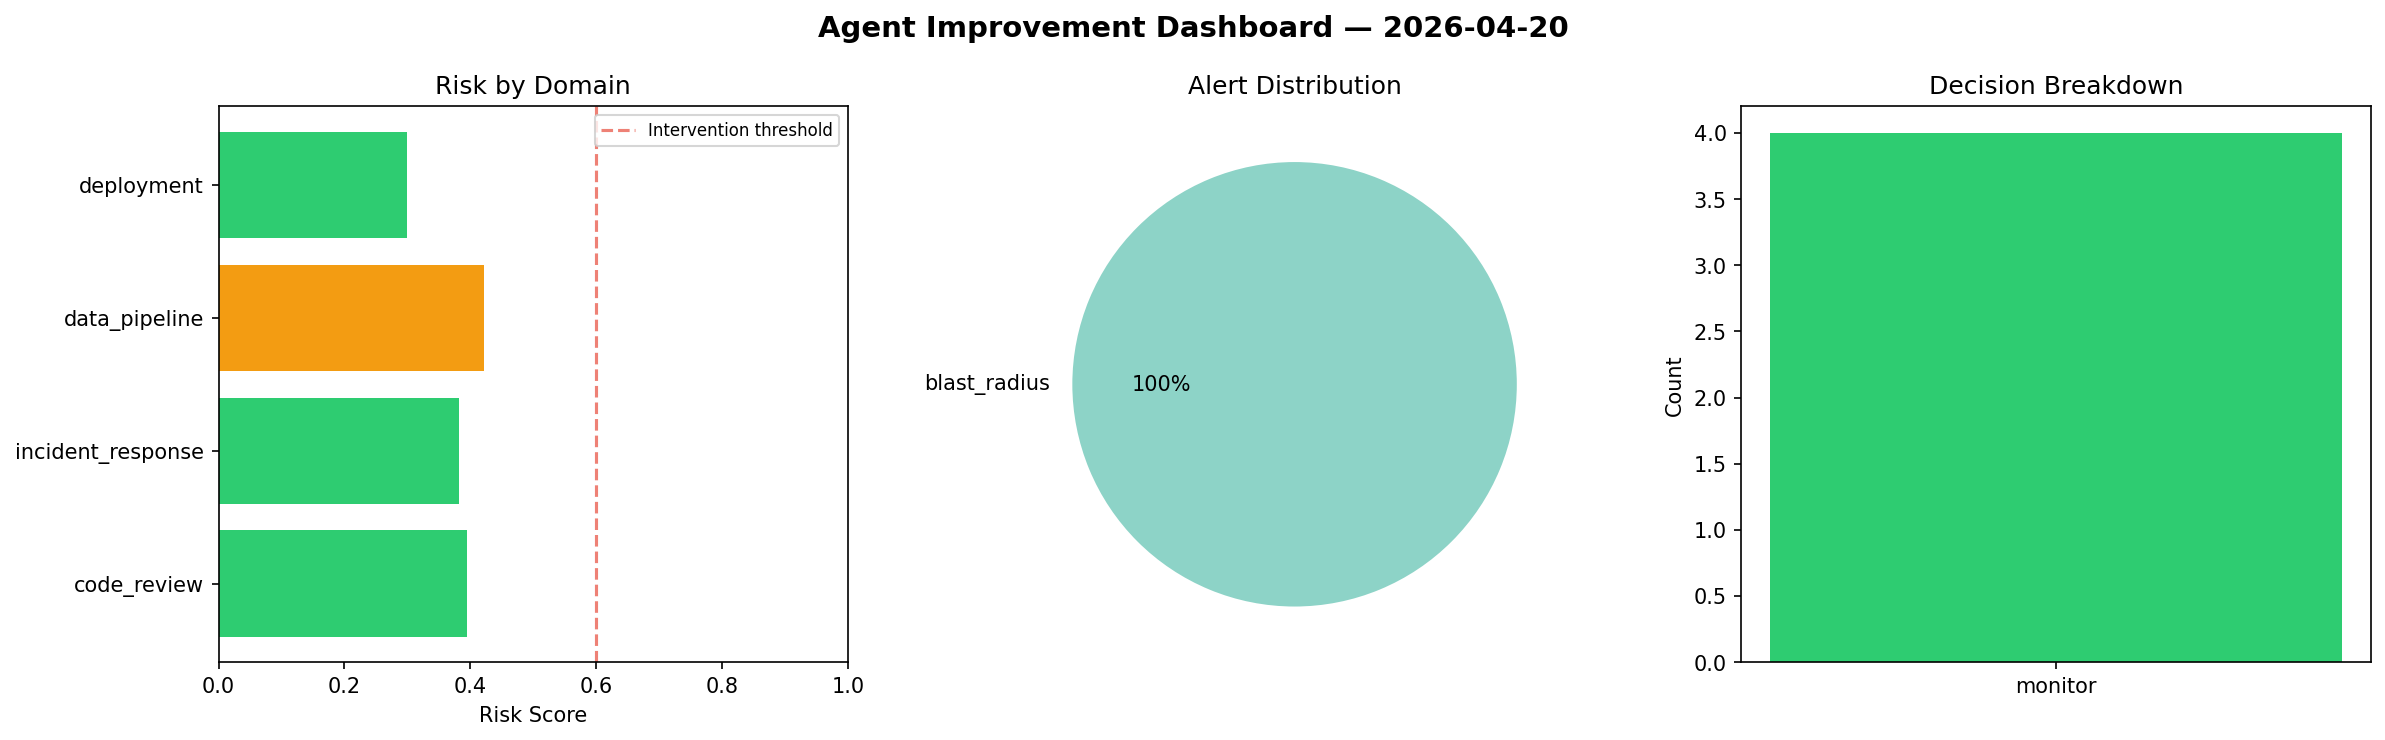
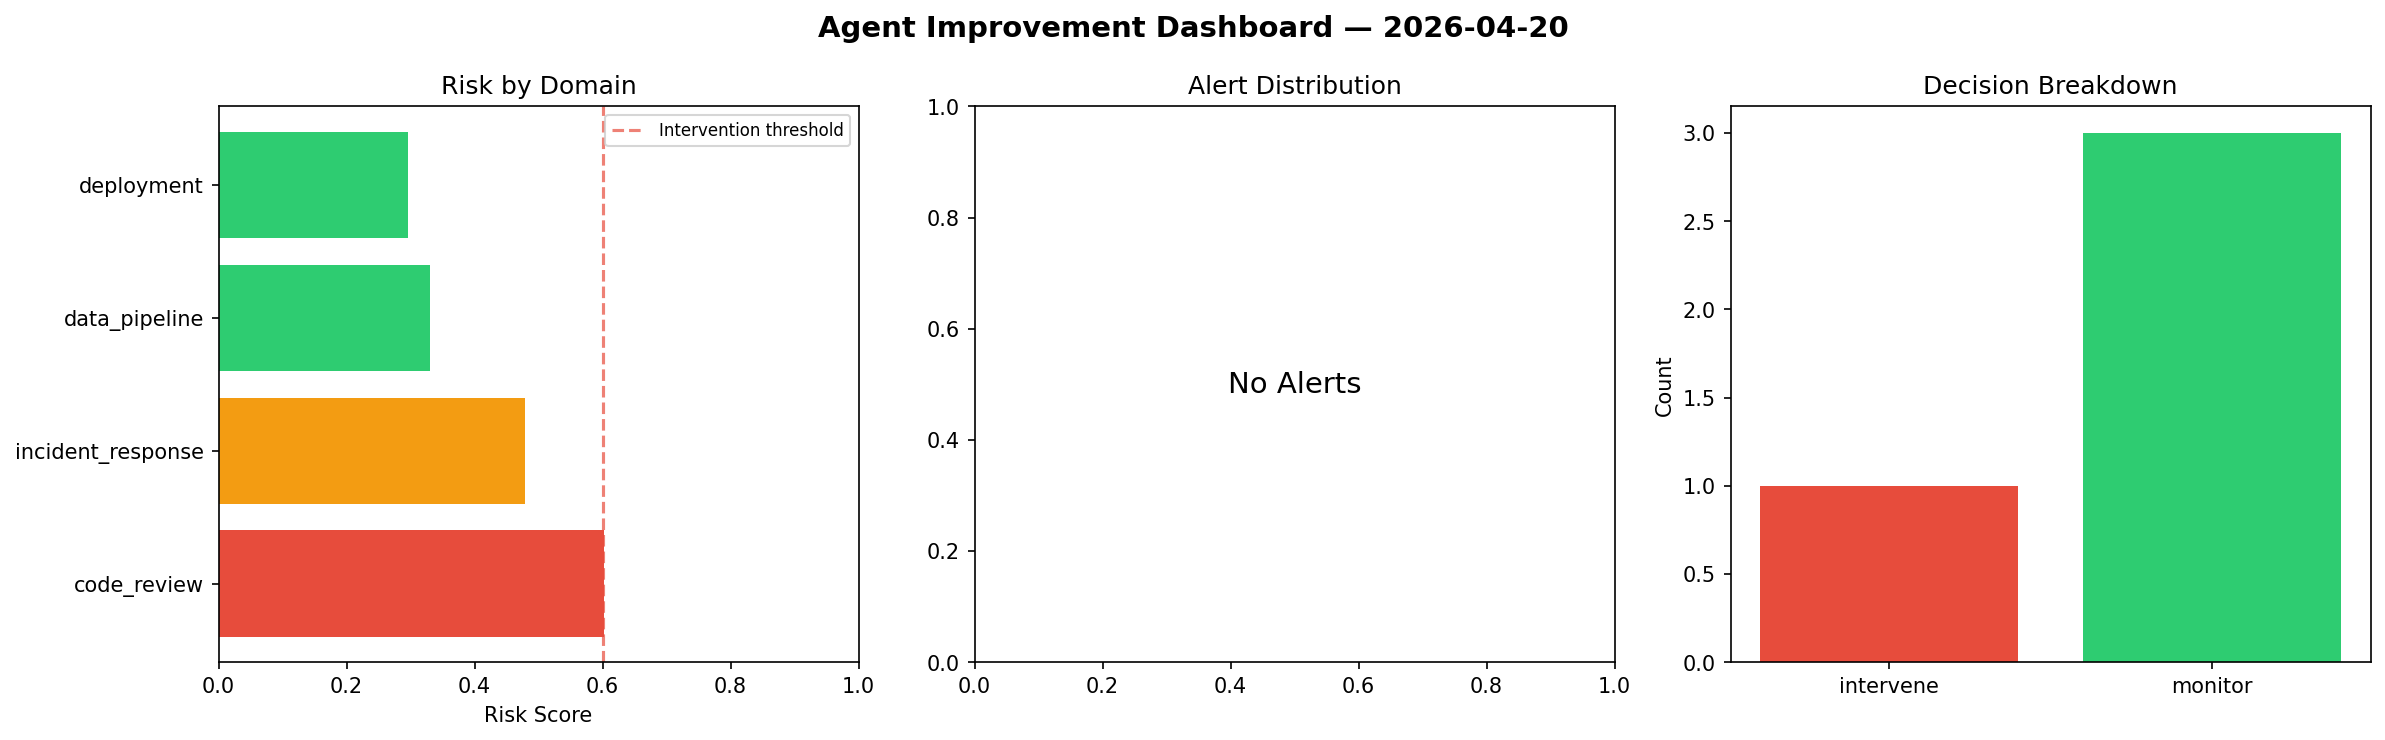
agent-improvement: daily cycle 2026-04-20T21:00

diff --git a/logs/2026-04-20.md b/logs/2026-04-20.md
@@ -1,6 +1,6 @@
 # Agent Improvement Report — 2026-04-20
 
-**Cycle ID:** `3a663c1c` | **Avg Risk:** 0.3744 | **Interventions:** 0/4
+**Cycle ID:** `6bb83434` | **Avg Risk:** 0.4269 | **Interventions:** 1/4
 
 ![Dashboard](2026-04-20_dashboard.png)
 
@@ -10,18 +10,18 @@
 
 | Domain | Risk Score | Decision | Alerts |
 |--------|-----------|----------|--------|
-| code_review | 0.3944 | monitor | none |
-| incident_response | 0.382 | monitor | blast_radius |
-| data_pipeline | 0.4225 | monitor | none |
-| deployment | 0.2987 | monitor | none |
+| code_review | 0.6017 | intervene | none |
+| incident_response | 0.4793 | monitor | none |
+| data_pipeline | 0.3303 | monitor | none |
+| deployment | 0.2965 | monitor | none |
 
 ## Delta vs Yesterday
 
 | Domain | Today | Yesterday | Change |
 |--------|-------|-----------|--------|
-| code_review | 0.3944 | 0.2312 | 📈 70.6% |
-| incident_response | 0.382 | 0.4425 | 📉 -13.7% |
-| data_pipeline | 0.4225 | 0.5411 | 📉 -21.9% |
-| deployment | 0.2987 | 0.5393 | 📉 -44.6% |
+| code_review | 0.6017 | 0.2312 | 📈 160.3% |
+| incident_response | 0.4793 | 0.4425 | 📈 8.3% |
+| data_pipeline | 0.3303 | 0.5411 | 📉 -39.0% |
+| deployment | 0.2965 | 0.5393 | 📉 -45.0% |
 
 **Refinement:** `{'adjustment': 'maintain', 'trend': 'improving', 'window': 4}`
